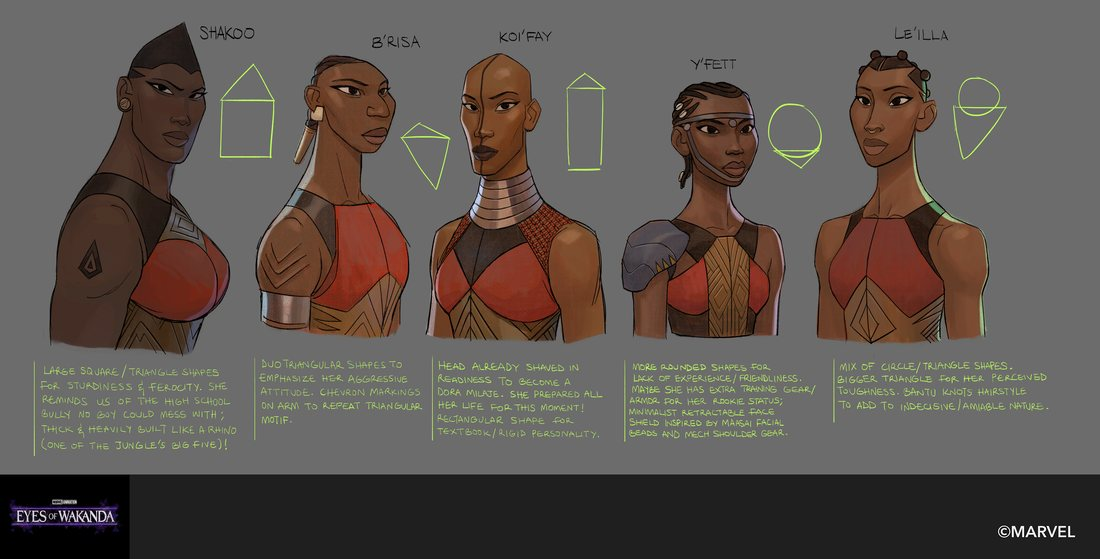
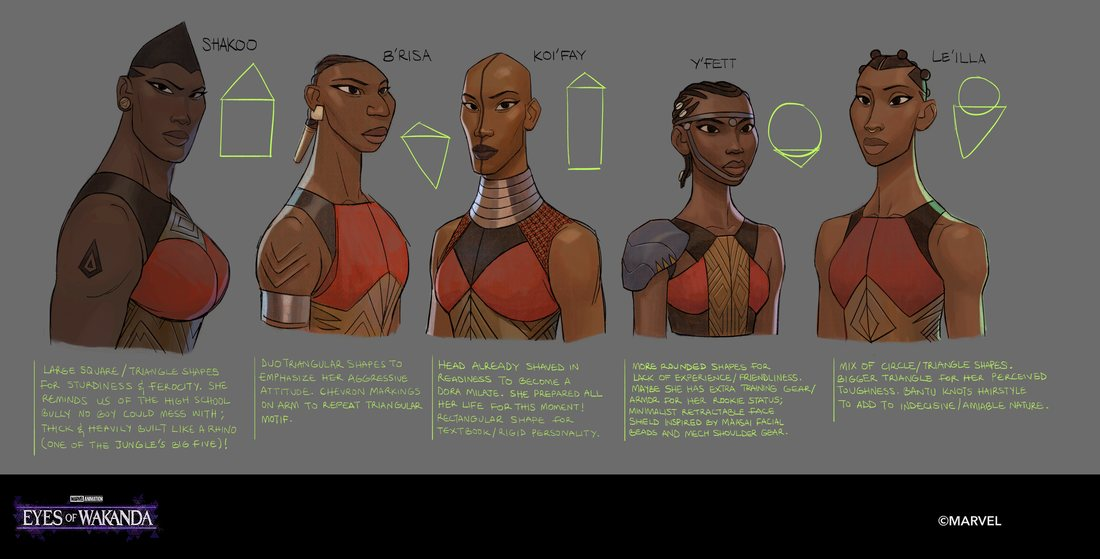
Level the about columns, and take the client's homepage cut of the sheet
About
- The Emmy card is square and the award is upright, so sizing both by
  width left the square one visibly shorter — which is what the client
  saw. They are sized by height now: one height for both, each width
  following its own shape. Measured at five window sizes, the two are
  level at every one, and land within about 20px of the writing beside
  them, so the three read as one row.

Homepage
- The client's file is the same sheet at the same size, but re-laid-out
  for a crop: the logo is larger and the ©MARVEL mark has been brought in
  from 0.977 of the width to 0.910. Anchored left, that means the mark
  survives down to a window of 1.79 rather than 1.99 — every ordinary
  browser viewport, 1920x950, 1536x730, 1366x640, 1440x770 among them,
  where the old cut lost it.
- The artwork sits a little differently in it, so the band the line is
  held in was re-measured off the new file: bodies from 0.384, figures
  ending at 0.603, notes from 0.645. 7.77vh and 3.95vw, matched at 1.97.

Claude-Session: https://claude.ai/code/session_01DEqnCik8NnWEAN8PztyZyx

diff --git a/css/site.css b/css/site.css
@@ -330,13 +330,13 @@ body.is-hero {
      caps it so the award line always fits across in one piece — it is
      that line's own width in ems. */
   /* Held to the clear band across the bodies — the sheet's own ink runs
-     heads from 0.14, bodies from 0.392, notes from 0.646, so the band is
-     0.392 to 0.608 and its middle is the sheet's middle, which is where
-     `cover` puts the window's middle. Three lines at 0.94 leading fill
-     that 0.216 at --fit. Below 1.97 the sheet's height fills the window
+     bodies from 0.384, figures end at 0.603, notes start at 0.645. So
+     the band is 0.384 to 0.603 and its middle is the sheet's middle,
+     which is where `cover` puts the window's middle. Three lines at 0.94
+     leading fill that 0.219 at --fit. Below 1.97 the height fills
      and the band is a share of that; above it the width leads instead.
      The two are equal at 1.97, so nothing shifts across it. */
-  --fit: 7.67vh;
+  --fit: 7.77vh;
   font-size: clamp(1.25rem, min(var(--fit), (100vw - 2 * var(--gutter)) / 14.3), 5.5rem);
   line-height: 0.94;
   letter-spacing: -0.025em;
@@ -351,7 +351,7 @@ body.is-hero {
 }
 
 @media (min-aspect-ratio: 59/30) {
-  .titlecard__line { --fit: 3.9vw; }
+  .titlecard__line { --fit: 3.95vw; }
 }
 
 /* the award line stays whole; the rest wraps under it */
@@ -499,11 +499,27 @@ body.is-hero {
 
   .pair { padding-top: clamp(0.75rem, 2vh, 2rem); }
 
-  /* The pictures give the writing the width, because a wider measure is
-     fewer lines and that is most of what keeps the page on one screen.
-     Tied to the window's height as well as its own: a short window needs
-     the writing wider still. */
-  .pair .art { max-width: min(19rem, 33vh); }
+  /* The Emmy card is square and the award is upright, so sizing them by
+     width left the square one short. They are sized by height instead —
+     one height for both, each width following its own shape — which is
+     what makes them level. The writing takes the width that leaves, and
+     a wider measure is fewer lines, which is most of what keeps the page
+     on one screen. */
+  .pair { --art-h: clamp(12rem, 43vh, 26rem); }
+
+  .pair .art {
+    flex: 0 0 auto;
+    max-width: none;
+    display: grid;
+    place-items: center;
+  }
+
+  .pair .art img {
+    height: var(--art-h);
+    width: auto;
+    max-width: 100%;
+    max-height: none;
+  }
 
   .pair .text {
     font-size: clamp(0.8125rem, 0.5vw + 0.42rem, 0.9375rem);

diff --git a/tools/prep_hero_landing.py b/tools/prep_hero_landing.py
@@ -14,9 +14,10 @@ narrower than that, so on most windows the height fills and the trim
 comes off the width. It is anchored left, which is the direction it
 should give way in: a wide window holds the whole line-up, a narrow one
 closes in on Shakoo and the Eyes of Wakanda logo beside her. What goes
-first, on anything narrower than 1.97, is the ©MARVEL mark at the far
-right — the whole sheet including that mark is on the Eyes of Wakanda
-page, uncropped.
+first, on anything narrower than 1.97, is the right edge — and this cut
+of the sheet has the ©MARVEL mark brought in to 0.91 of the width for
+that reason, so it survives down to 1.79, which is under every ordinary
+browser window. The whole sheet is on the Eyes of Wakanda page anyway.
 """
 
 import os
@@ -24,8 +25,11 @@ import os
 from PIL import Image
 
 ROOT = os.path.dirname(os.path.dirname(os.path.abspath(__file__)))
+# the client's homepage cut of the sheet: same artwork, but the logo is
+# larger and the ©MARVEL mark has been brought in from the right edge to
+# 0.91 of the width, so an ordinary window's crop no longer takes it
 SRC = os.path.join(ROOT, "Uzoma Website Images", "Uzoma Website", "Eyes of Wakanda",
-                   "StyleExploration_Dora_Concept_080321_UDunkwu _v001.png")
+                   "UzomaDunkwu_Homepage.png")
 OUT = os.path.join(ROOT, "assets", "hero")
 
 WIDTHS = (2560, 1600, 1100)
